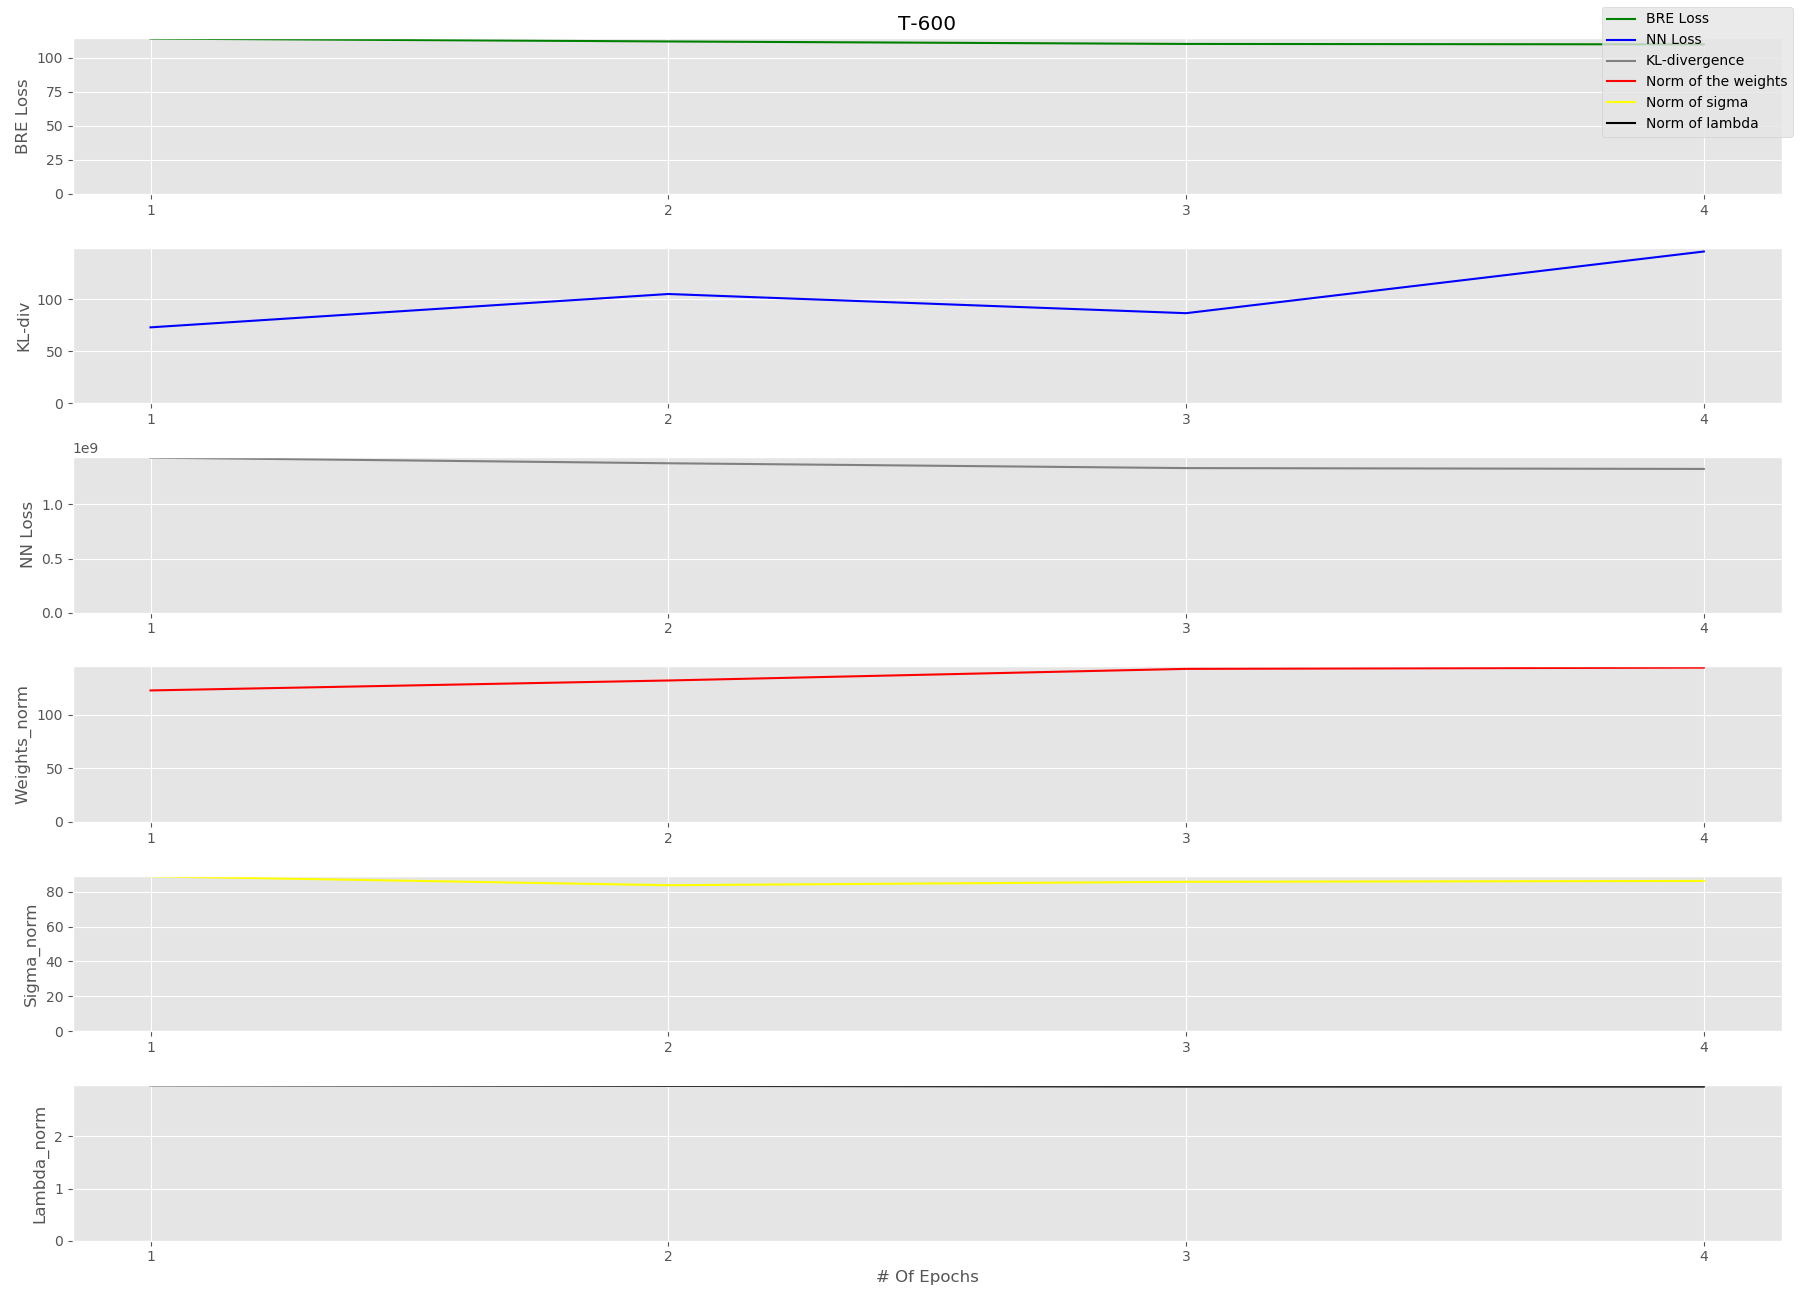
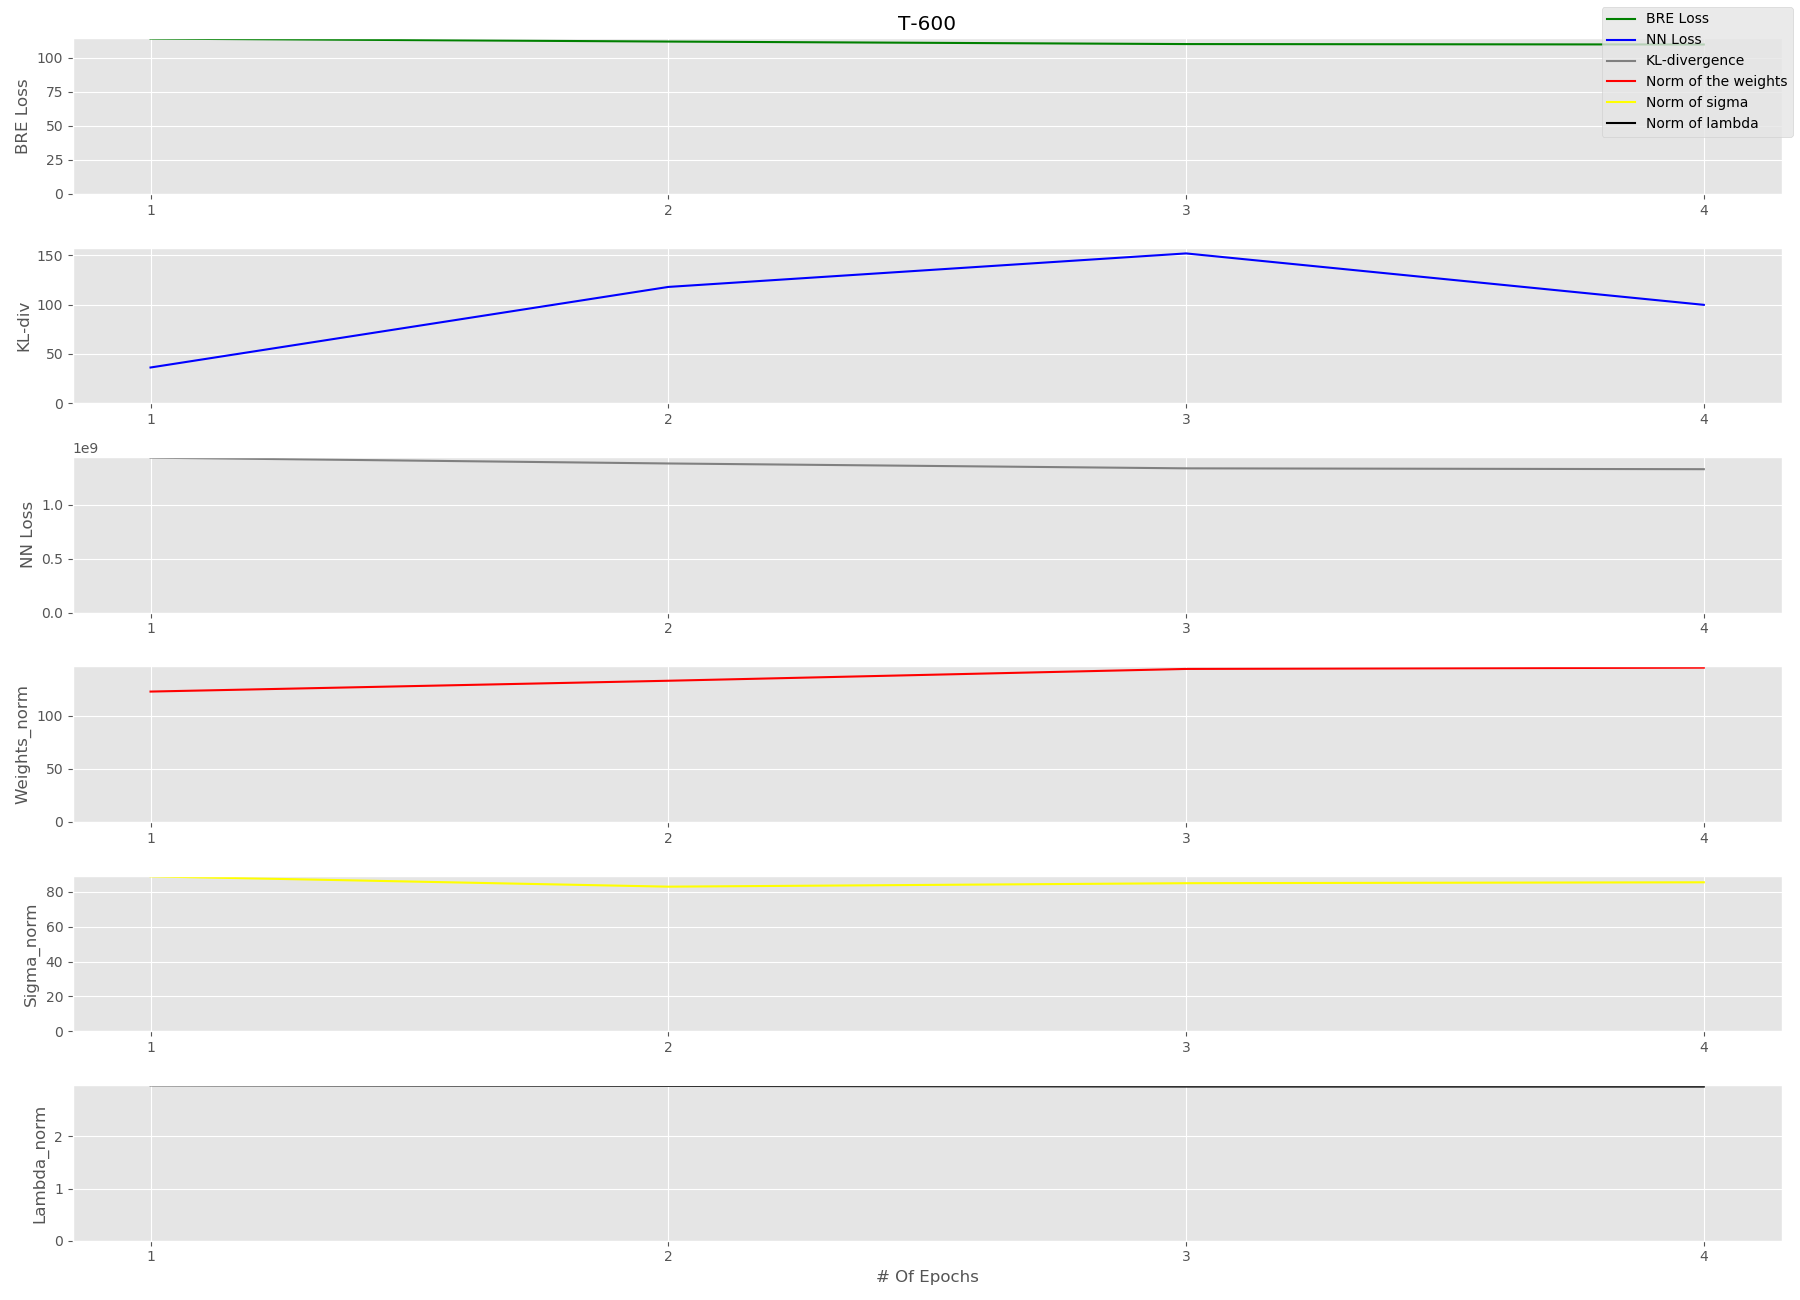
Saving final results as csv file

diff --git a/Main.py b/Main.py
@@ -8,6 +8,7 @@ from Mnist_dataset import binary_mnist_loader
 from Architectures import * 
 import pickle
 import os  
+import csv
 from functools import reduce
 
 
@@ -51,13 +52,14 @@ def main(model_name, test_cuda=False):
     Precision = 100 
     bound = 0.1 
     data_size = 55000
-    # n_mtcarlo_approx = 150000
-    n_mtcarlo_approx = 10
+    n_mtcarlo_approx = 150000
     delta_prime = 0.01
     if (model_name[0]=='R'):
         learning_rate = 0.0001
+        epochs = 8
     else:
         learning_rate = 0.001
+        epochs = 4
     
 
     lambda_prior = torch.tensor(-3., device=device).requires_grad_()
@@ -70,10 +72,6 @@ def main(model_name, test_cuda=False):
     criterion = nn.CrossEntropyLoss()
     nnloss = mnnLoss(criterion, BRE.flat_params, BRE.sigma_posterior_, net, BRE.d_size, device)
 
-    if (model_name[0]=='R'):
-        epochs = 8
-    else:
-        epochs = 4
     print("==> Starting PAC-Bayes bound optimization")
 
     mean_losses, BRE_loss, KL_value, NN_loss_final, norm_weights, norm_sigma, norm_lambda, outputs = (list() for i in range(8))
@@ -86,8 +84,7 @@ def main(model_name, test_cuda=False):
                 param_group['lr'] = learning_rate/10
             
         for i, (images, labels) in enumerate(train_loader):
-            if i>10:
-                break
+
             print("\r Progress: {}%".format(100 * i // BRE.data_size), end="")
 
             images = images.reshape(-1, 28 * 28).to(device)
@@ -125,19 +122,20 @@ def main(model_name, test_cuda=False):
     
     print("\n==> Optimization done ")
     print("\n==> Saving Parameters... ")
-    # with open('./PAC_solutions/' + str(model_name) + '_BRE_flat_params.pickle', 'wb') as handle:
-    #     pickle.dump(BRE.flat_params, handle, protocol=pickle.HIGHEST_PROTOCOL)
 
-    # with open('./PAC_solutions/' + str(model_name) + '_BRE_sigma_posterior.pickle', 'wb') as handle:
-    #     pickle.dump(BRE.sigma_posterior_, handle, protocol=pickle.HIGHEST_PROTOCOL)
+    with open('./PAC_solutions/' + str(model_name) + '_BRE_flat_params.pickle', 'wb') as handle:
+        pickle.dump(BRE.flat_params, handle, protocol=pickle.HIGHEST_PROTOCOL)
 
-    # with open('./PAC_solutions/' + str(model_name) + '_BRE_lambda_prior.pickle', 'wb') as handle:
-    #     pickle.dump(BRE.lambda_prior_, handle, protocol=pickle.HIGHEST_PROTOCOL)
+    with open('./PAC_solutions/' + str(model_name) + '_BRE_sigma_posterior.pickle', 'wb') as handle:
+        pickle.dump(BRE.sigma_posterior_, handle, protocol=pickle.HIGHEST_PROTOCOL)
+
+    with open('./PAC_solutions/' + str(model_name) + '_BRE_lambda_prior.pickle', 'wb') as handle:
+        pickle.dump(BRE.lambda_prior_, handle, protocol=pickle.HIGHEST_PROTOCOL)
 
     plot_results(model_name, BRE_loss, KL_value, NN_loss_final, norm_weights, norm_sigma, norm_lambda)
 
     print("\n==> Calculating SNN train error and PAC Bayes bound :", end='\t')
-    snn_train_error, Pac_bound = BRE.compute_bound(train_loader, delta_prime, n_mtcarlo_approx) 
+    snn_train_error, Pac_bound, kl = BRE.compute_bound(train_loader, delta_prime, n_mtcarlo_approx) 
     outputs.append(model_name)
     outputs.append(snn_train_error)
     outputs.append(Pac_bound)
@@ -145,21 +143,16 @@ def main(model_name, test_cuda=False):
     print("\n==> Calculating SNN test error :", end='\t')
     snn_test_error = BRE.SNN_error(test_loader, delta_prime, n_mtcarlo_approx)
     outputs.append(snn_test_error)
+    outputs.append(kl.item())
     print("Done")
-    
-    
-    # with open('./PAC_solutions/' + str(model_name) + '_FinalPac_bound.pickle', 'wb') as handle:
-    #     pickle.dump(Pac_bound, handle, protocol=pickle.HIGHEST_PROTOCOL)
 
     print('\n Epoch {} Finished \t SNN_Train Error: {:.4f}\t SNN_Test Error: {:.4f} \t PAC-bayes Bound: {:.4f}\r'.format(epoch, snn_train_error,
                 snn_test_error, Pac_bound))
 
-    with open('./final_results/' + str(model_name) + '.csv', 'w') as handle:
-        spam_writer = csv.writer(csv_file, delimiter=';', quotechar='|', quoting=csv.QUOTE_MINIMAL)
-        spam_writer.writerow(['Model', 'SNN_Train_Error', 'PAC-bayes bound', 'SNN_TEST_Error'])
-
-        for output in outputs:
-            spam_writer.writerow(output)
+    with open('./final_results/' + str(model_name) + '_.csv', 'w') as handle:
+        spam_writer = csv.writer(handle, delimiter=';', quotechar='|', quoting=csv.QUOTE_MINIMAL)
+        spam_writer.writerow(['Model', 'SNN_Train_Error', 'PAC-bayes bound', 'SNN_TEST_Error', 'KL_Divergence'])
+        spam_writer.writerow(outputs)
     
 if __name__ == '__main__':
 

diff --git a/PacBayes_Loss.py b/PacBayes_Loss.py
@@ -75,13 +75,14 @@ class PacBayesLoss(nn.Module):
         j_round = torch.round(self.precision * (log(self.bound) - (2 * self.lambda_prior_)))
         lambda_prior_ = 0.5 * (log(self.bound)- (j_round/self.precision)).clone().detach()
 
-        Bre_loss = calc_BRE_term(self.precision, self.conf_param, self.bound, self.flat_params, 
+        Bre_loss, kl = calc_BRE_term(self.precision, self.conf_param, self.bound, self.flat_params, 
                                  self.params_0, lambda_prior_, self.sigma_posterior_, 
-                                 self.data_size, self.d_size).detach().numpy()
+                                 self.data_size, self.d_size)
         
+        Bre_loss = Bre_loss.detach().numpy()
         final_bound = solve_kl_sup(SNN_train_error, 2 * (Bre_loss**2))
         
-        return SNN_train_error, final_bound
+        return SNN_train_error, final_bound, kl
     
     def sample_weights(self):      
         """
